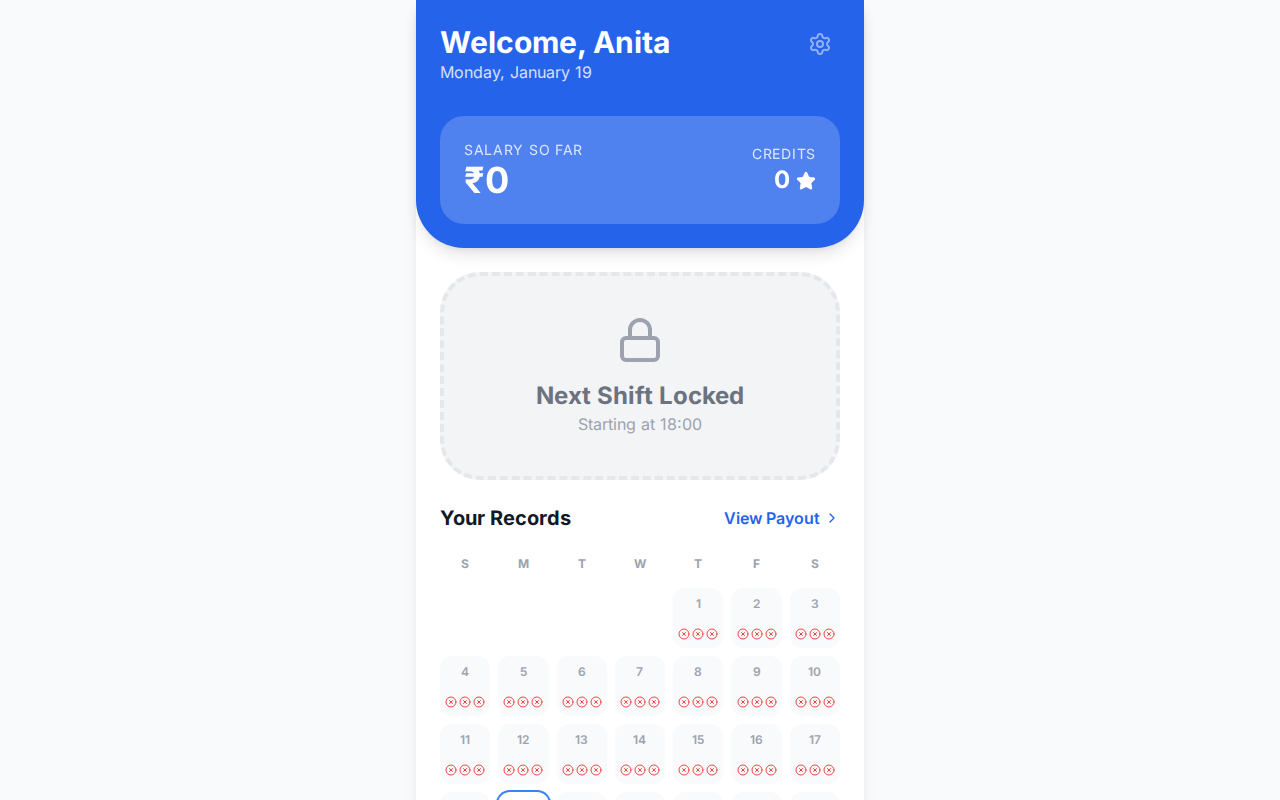
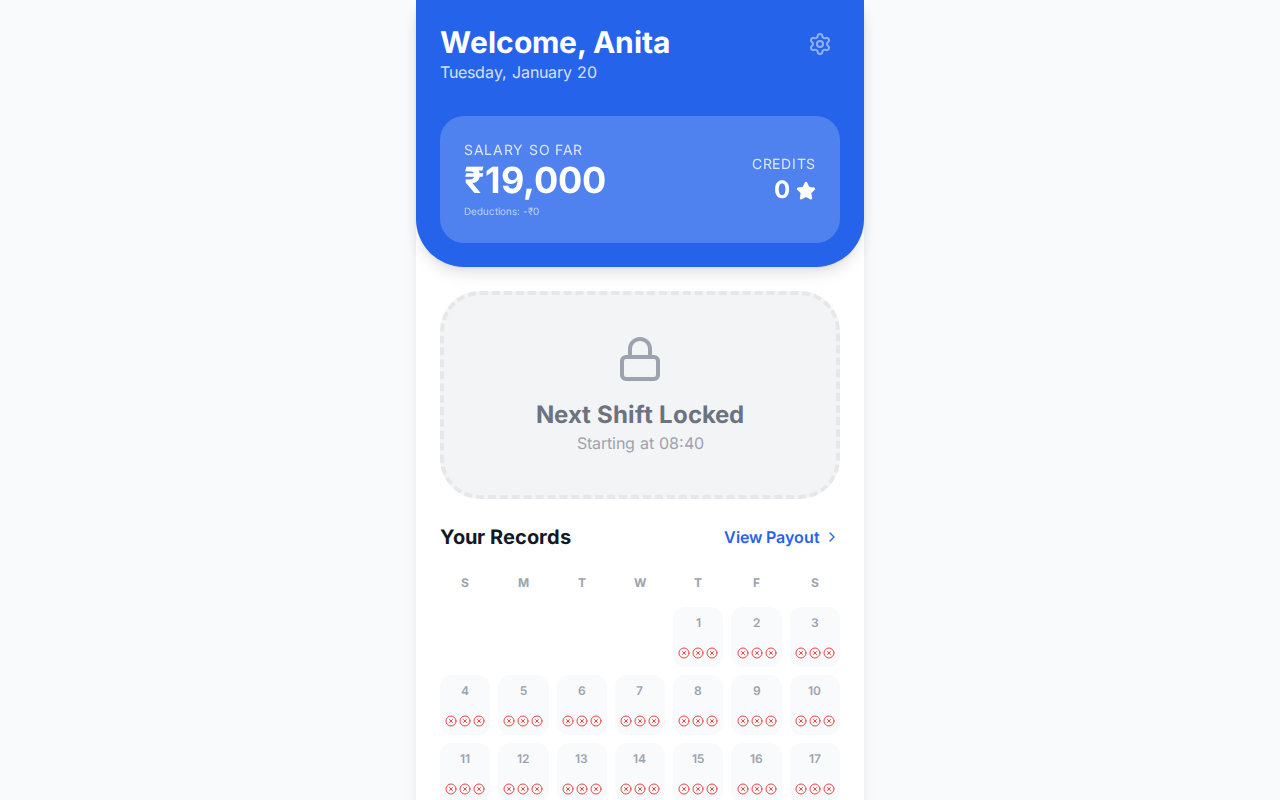
Refine Anita Attendance App with manual credits and deduction-based salary
- Added manual credit adjustment in Admin settings.
- Updated salary model to start from ₹19,000 and deduct for missed shifts/late arrivals.
- Implemented actual Face Recognition (embeddings) for authentication.
- Removed simulation bypass buttons from Face ID modal.
- Fixed Early Credit logic (award for 30+ mins early).
- Added deductions breakdown to the main UI.

diff --git a/anita_app.html b/anita_app.html
@@ -146,7 +146,8 @@
             try {
                 await Promise.all([
                     faceapi.nets.tinyFaceDetector.loadFromUri(MODEL_URL),
-                    faceapi.nets.faceLandmark68Net.loadFromUri(MODEL_URL)
+                    faceapi.nets.faceLandmark68Net.loadFromUri(MODEL_URL),
+                    faceapi.nets.faceRecognitionNet.loadFromUri(MODEL_URL)
                 ]);
                 modelsLoaded = true;
                 console.log("Face models loaded");
@@ -157,8 +158,9 @@
 
         async function detectFace(videoElement) {
             if (!modelsLoaded) await loadFaceModels();
-            const detections = await faceapi.detectSingleFace(videoElement, new faceapi.TinyFaceDetectorOptions());
-            return detections;
+            return await faceapi.detectSingleFace(videoElement, new faceapi.TinyFaceDetectorOptions())
+                .withFaceLandmarks()
+                .withFaceDescriptor();
         }
 
         // Constants for logic
@@ -237,7 +239,7 @@
             const actuallyCanceled = Math.min(availableCredits, potentialCancellations);
 
             const netLatePenalties = latePenalties - (actuallyCanceled * 50);
-            const currentSalary = earnings - netLatePenalties;
+            const currentSalary = state.settings.monthlySalary - totalMissedValue - netLatePenalties;
 
             return {
                 currentSalary: Math.max(0, currentSalary),
@@ -259,6 +261,12 @@
             document.getElementById('faceid-modal').classList.remove('hidden');
             document.getElementById('faceid-msg').textContent = "Scanning face...";
             document.getElementById('faceid-msg').className = "text-gray-600 font-medium";
+
+            // Hide simulation buttons in production
+            document.getElementById('faceid-actions').innerHTML = `
+                <button onclick="closeFaceID()" class="text-gray-400 py-2 text-sm font-bold uppercase tracking-wider">Cancel</button>
+            `;
+
             startCamera('auth-video').then(() => {
                 startAuthDetection();
             });
@@ -268,46 +276,47 @@
         async function startAuthDetection() {
             const video = document.getElementById('auth-video');
             const msg = document.getElementById('faceid-msg');
-            let detectionCount = 0;
+            let matchCount = 0;
 
             authDetectionInterval = setInterval(async () => {
                 if (!video || video.paused || video.ended) return;
-                const detection = await detectFace(video);
+                const result = await detectFace(video);
 
-                if (detection) {
-                    detectionCount++;
-                    msg.textContent = "VERIFYING... " + (".".repeat(detectionCount));
-                    msg.className = "text-green-600 font-bold";
+                if (result) {
+                    // Compare with stored descriptor
+                    const dist = faceapi.euclideanDistance(result.descriptor, new Float32Array(state.faceDescriptor));
+                    console.log("Face distance:", dist);
 
-                    if (detectionCount >= 3) {
-                        clearInterval(authDetectionInterval);
-                        simulateFaceID(true);
+                    if (dist < 0.6) { // 0.6 is standard threshold
+                        matchCount++;
+                        msg.textContent = "VERIFYING IDENTITY... " + (".".repeat(matchCount));
+                        msg.className = "text-green-600 font-bold";
+
+                        if (matchCount >= 3) {
+                            clearInterval(authDetectionInterval);
+                            onFaceMatchSuccess();
+                        }
+                    } else {
+                        matchCount = 0;
+                        msg.textContent = "Face does not match!";
+                        msg.className = "text-red-500 font-bold";
                     }
                 } else {
-                    detectionCount = 0;
+                    matchCount = 0;
                     msg.textContent = "Anita, please look at the camera";
                     msg.className = "text-gray-600 font-medium";
                 }
             }, 600);
         }
 
-        function simulateFaceID(success) {
+        function onFaceMatchSuccess() {
             const msg = document.getElementById('faceid-msg');
-            if (success) {
-                msg.textContent = "Face Recognized!";
-                msg.classList.add('text-green-600');
-                setTimeout(() => {
-                    closeFaceID();
-                    if (currentAuthCallback) currentAuthCallback('faceid');
-                }, 1000);
-            } else {
-                msg.textContent = "Face ID failed. Enter password";
-                msg.classList.add('text-red-600');
-                setTimeout(() => {
-                    closeFaceID();
-                    showPasswordModal();
-                }, 1000);
-            }
+            msg.textContent = "Identity Confirmed ✅";
+            msg.className = "text-green-600 font-bold text-xl";
+            setTimeout(() => {
+                closeFaceID();
+                if (currentAuthCallback) currentAuthCallback('faceid');
+            }, 1000);
         }
 
         function closeFaceID() {
@@ -475,18 +484,31 @@
             }
         }
 
-        function startEnrollment() {
+        async function startEnrollment() {
             const btn = document.getElementById('enroll-btn');
-            btn.innerHTML = '<span class="animate-pulse">Capturing...</span>';
-            btn.disabled = true;
-            stopDetection();
+            const video = document.getElementById('enroll-video');
 
-            setTimeout(() => {
-                state.faceEnrolled = true;
-                saveState();
-                stopCamera();
-                setView('maid');
-            }, 2000);
+            btn.innerHTML = '<span class="animate-pulse">Capturing Face Data...</span>';
+            btn.disabled = true;
+
+            try {
+                const result = await detectFace(video);
+                if (result) {
+                    state.faceDescriptor = Array.from(result.descriptor);
+                    state.faceEnrolled = true;
+                    saveState();
+                    stopDetection();
+                    stopCamera();
+                    setView('maid');
+                } else {
+                    btn.innerHTML = 'CAPTURE FAILED - RETRY';
+                    btn.disabled = false;
+                }
+            } catch (err) {
+                console.error("Enrollment error:", err);
+                btn.innerHTML = 'ERROR - RETRY';
+                btn.disabled = false;
+            }
         }
 
         function renderMaidView(app, salaryData) {
@@ -552,6 +574,7 @@
                         <div>
                             <p class="text-sm uppercase tracking-wider opacity-80">Salary so far</p>
                             <p class="text-4xl font-bold">${state.settings.currency}${Math.round(salaryData.currentSalary).toLocaleString()}</p>
+                            <p class="text-[10px] opacity-60 mt-1">Deductions: -${state.settings.currency}${Math.round(salaryData.totalMissedValue + salaryData.netLatePenalties)}</p>
                         </div>
                         <div class="text-right">
                             <p class="text-sm uppercase tracking-wider opacity-80">Credits</p>
@@ -718,6 +741,27 @@
                                         <input type="password" id="set-maid-pass" value="${state.settings.maidPassword}" onchange="updateSetting('maidPassword', this.value)" class="w-full border border-gray-200 rounded-xl p-3">
                                     </div>
                                 </div>
+
+                                <div class="pt-4 border-t border-gray-100">
+                                    <label class="text-xs font-bold text-gray-400 uppercase">Manual Credit Adjustment</label>
+                                    <div class="flex items-center justify-between mt-2 bg-gray-50 p-4 rounded-xl">
+                                        <div class="flex items-center gap-2">
+                                            <div class="bg-blue-100 p-2 rounded-lg">
+                                                <i data-lucide="star" class="w-5 h-5 text-blue-600 fill-current"></i>
+                                            </div>
+                                            <span class="font-bold text-lg">${state.credits} Credits</span>
+                                        </div>
+                                        <div class="flex gap-2">
+                                            <button onclick="adjustCredits(-1)" class="bg-white border border-gray-200 text-gray-700 w-10 h-10 rounded-lg font-bold shadow-sm active:scale-95 transition-transform flex items-center justify-center">
+                                                <i data-lucide="minus" class="w-4 h-4"></i>
+                                            </button>
+                                            <button onclick="adjustCredits(1)" class="bg-blue-600 text-white w-10 h-10 rounded-lg font-bold shadow-sm active:scale-95 transition-transform flex items-center justify-center">
+                                                <i data-lucide="plus" class="w-4 h-4"></i>
+                                            </button>
+                                        </div>
+                                    </div>
+                                    <p class="text-[10px] text-gray-400 mt-2 italic">Note: Each credit cancels one ₹50 late penalty.</p>
+                                </div>
                             </div>
                         </div>
 
@@ -810,6 +854,12 @@
 
         function updateShift(index, field, value) {
             state.settings.shifts[index][field] = value;
+            saveState();
+            render();
+        }
+
+        function adjustCredits(delta) {
+            state.credits = Math.max(0, state.credits + delta);
             saveState();
             render();
         }
@@ -969,9 +1019,13 @@
                         <div class="bg-white rounded-3xl p-6 shadow-sm space-y-4">
                             <h2 class="font-bold text-gray-400 uppercase text-xs">Breakdown</h2>
                             <div class="space-y-3">
-                                <div class="flex justify-between text-green-600">
-                                    <span>Total Earnings</span>
-                                    <span class="font-bold">+${state.settings.currency}${Math.round(salaryData.totalEarnings)}</span>
+                                <div class="flex justify-between text-blue-600">
+                                    <span>Base Monthly Salary</span>
+                                    <span class="font-bold">${state.settings.currency}${Math.round(state.settings.monthlySalary)}</span>
+                                </div>
+                                <div class="flex justify-between text-red-600">
+                                    <span>Missed Shifts</span>
+                                    <span class="font-bold">-${state.settings.currency}${Math.round(salaryData.totalMissedValue)}</span>
                                 </div>
                                 <div class="flex justify-between text-yellow-600">
                                     <span>Late Penalties (Net)</span>
@@ -1049,7 +1103,7 @@
 
             state.attendance[dateStr][`shift${info.index}`] = record;
 
-            if (info.isEarly) {
+            if (info.isEarlyCredit) {
                 state.credits += 1;
             }
 
@@ -1071,11 +1125,11 @@
 
                 if (todayAttendance[`shift${i}`]) continue;
 
-                // Entry starts up to 30 mins early
-                const earlyMins = startMins - 30;
+                // Entry starts up to 60 mins early
+                const earlyMins = startMins - 60;
                 if (nowMins >= earlyMins && nowMins <= endMins) {
                     let status = 'on-time';
-                    let isEarly = nowMins < startMins;
+                    let isEarlyCredit = nowMins <= (startMins - 30);
                     if (nowMins > penaltyMins) {
                         status = 'late';
                     }
@@ -1086,7 +1140,7 @@
                         startTime: shiftCfg.start,
                         endTime: shiftCfg.end,
                         status: status,
-                        isEarly: isEarly,
+                        isEarlyCredit: isEarlyCredit,
                         nowMins: nowMins
                     };
                 }
